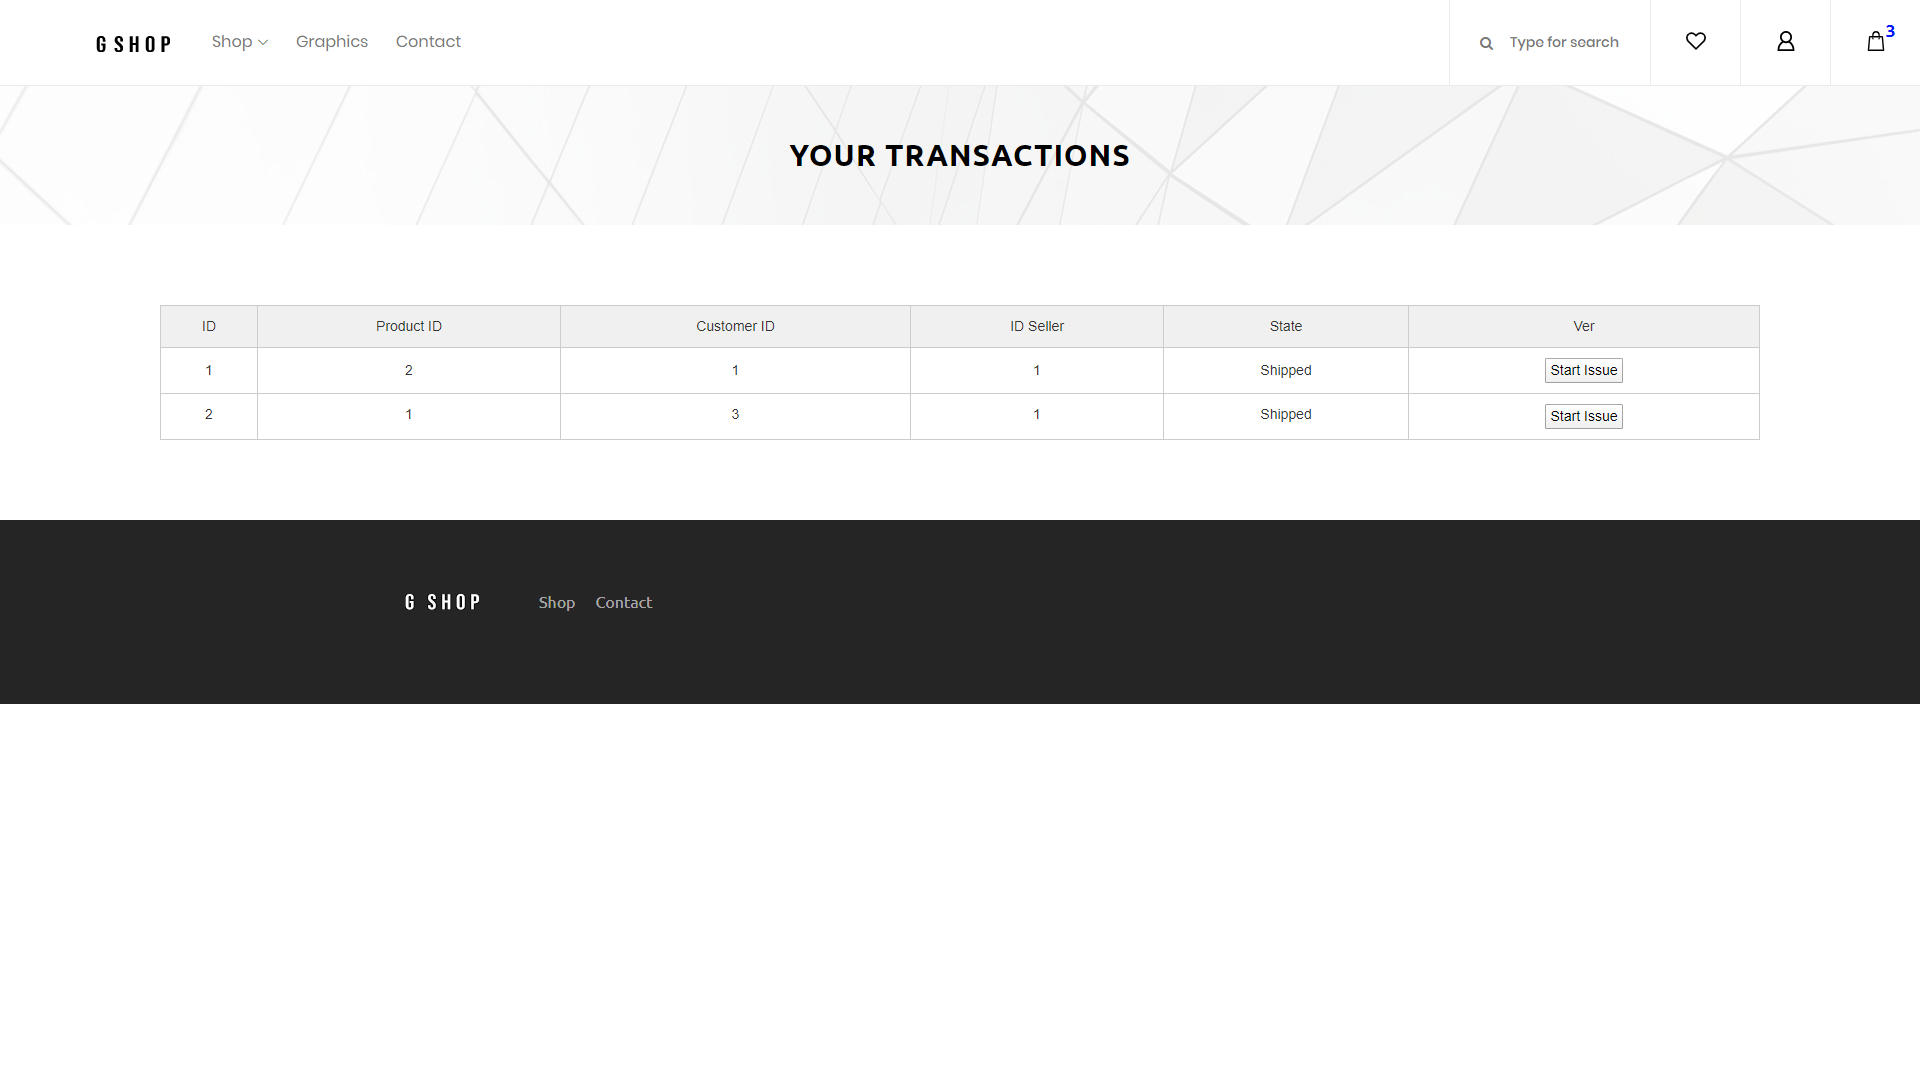
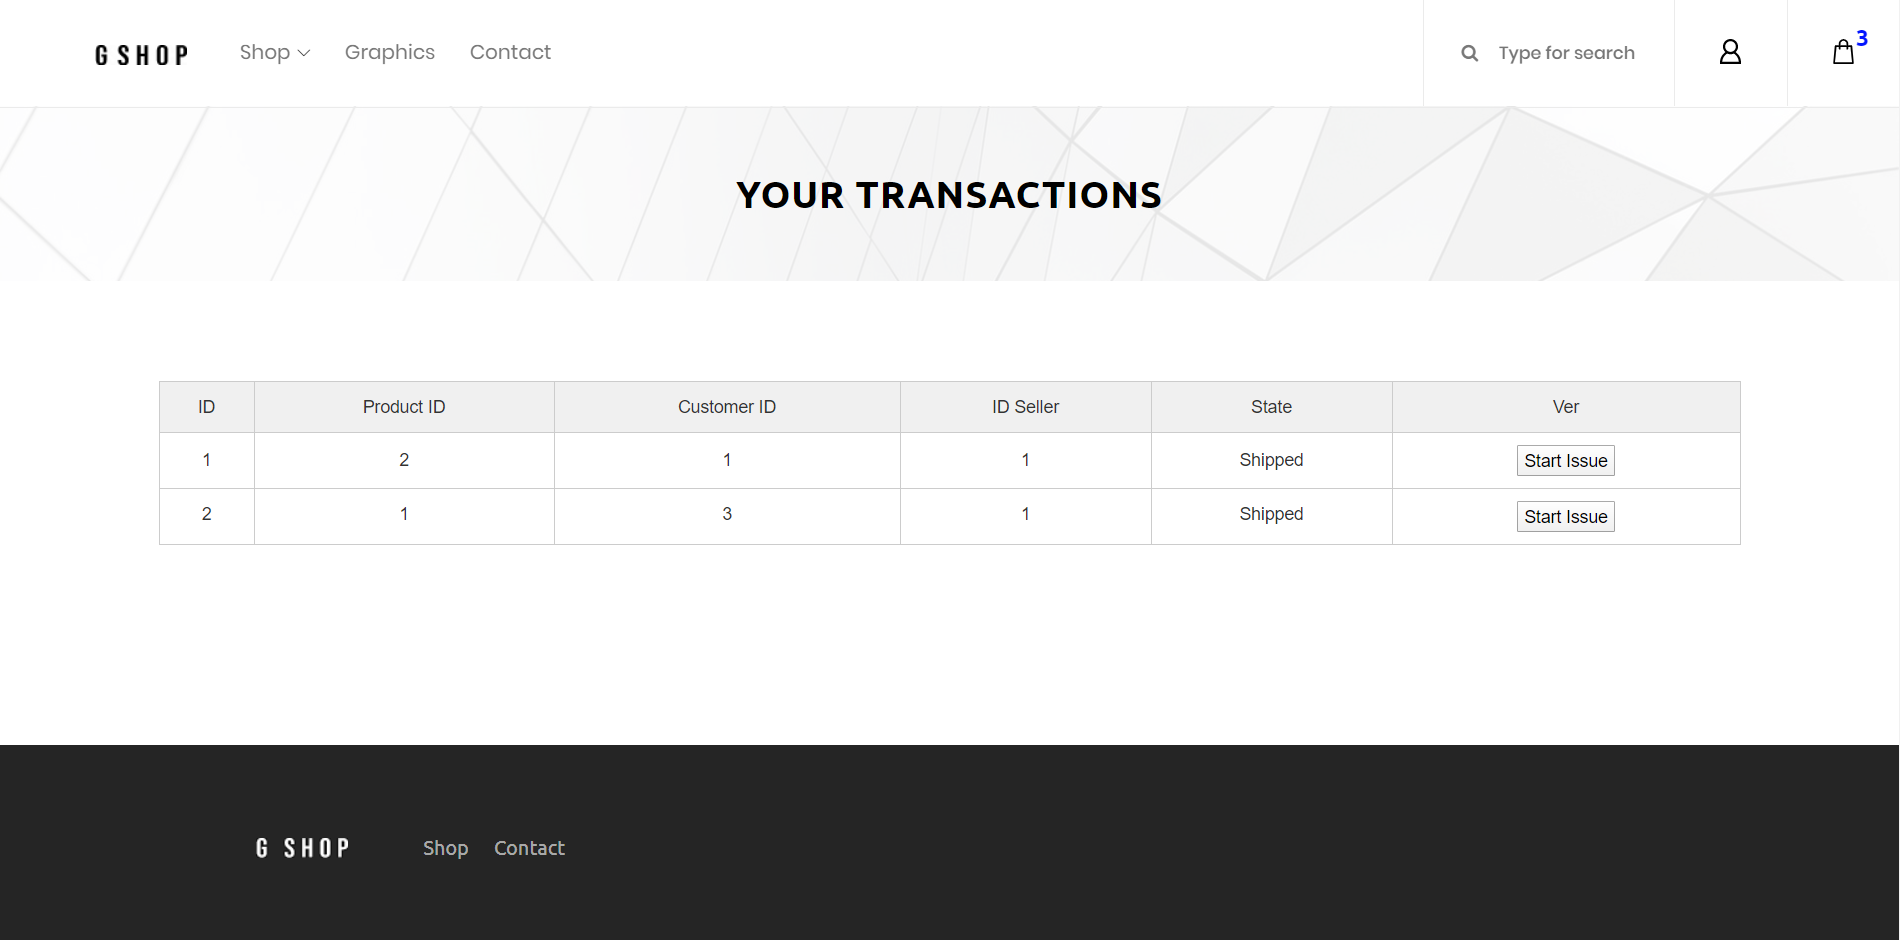
transactions-list bottom padding
Added "bottom padding" to transactions-list and updated img

diff --git a/template/transactions-list.html b/template/transactions-list.html
@@ -218,8 +218,10 @@
                 </td>
             </tr>
         </table>
-
     </section>
+</div>
+    
+<div class="select-box d-flex mt-50 mb-30">
 </div>
 
 <!-- ##### Footer Area Start ##### -->
